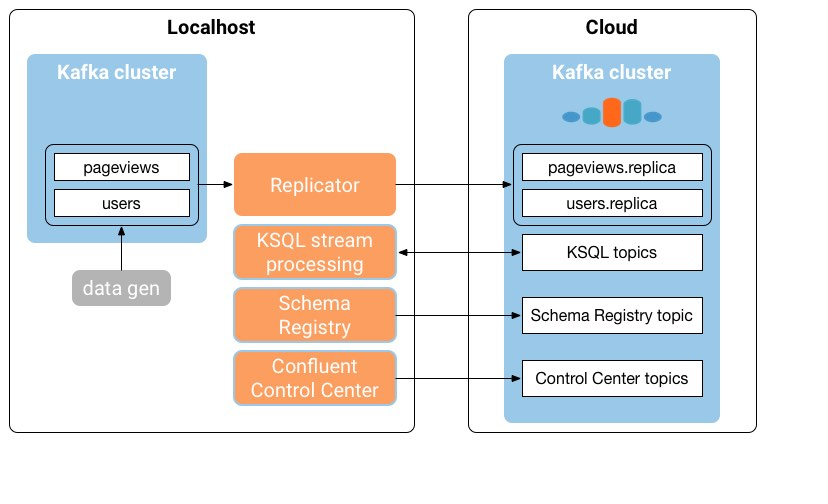
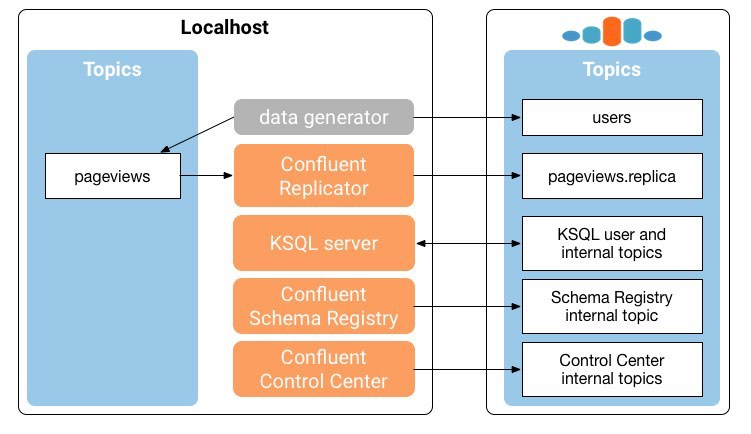
Update docs  and diagram with users generated directly to CCloud

diff --git a/ccloud/docs/index.rst b/ccloud/docs/index.rst
@@ -16,7 +16,7 @@ Overview
 
 This |ccloud| demo showcases Hybrid Kafka Clusters from Self-Hosted to |ccloud|. This automated demo is an expansion of the `KSQL Tutorial <https://docs.confluent.io/current/ksql/docs/tutorials/basics-local.html#create-a-stream-and-table>`__ , but instead of KSQL stream processing running on your local install, it runs on your |ccloud| cluster.
 
-You can monitor the KSQL streams in |c3|. This demo also showcases the Confluent Replicator executable for self-hosted Confluent to |ccloud|. This can be used for Disaster Recovery or other scenarios. In this case, Replicator is used to bootstrap the KSQL stream processing input Kafka topics `users` and `pageviews`.
+You can monitor the KSQL streams in |c3|. This demo also showcases the Confluent Replicator executable for self-hosted Confluent to |ccloud|. Confluent Replicator can be used to transfer data from another cluster into |ccloud|, or it can be used for Disaster Recovery scenarios. In this case demo, Replicator is used to bootstrap the Kafka topic `pageviews.replica` which is used for KSQL stream processing.
 
 .. figure:: images/ccloud-demo-diagram.jpg
     :alt: image
@@ -198,7 +198,7 @@ KSQL
        Table Name        | Kafka Topic       | Format | Windowed 
       -----------------------------------------------------------
        PAGEVIEWS_REGIONS | PAGEVIEWS_REGIONS | AVRO   | true     
-       USERS_ORIGINAL    | users.replica     | AVRO   | false    
+       USERS_ORIGINAL    | users             | AVRO   | false    
       -----------------------------------------------------------
 
 
@@ -290,23 +290,31 @@ a self-hosted cluster, and the destination cluster is |ccloud|.
 
         # General Replicator properties define the replication policy
         $ cat `confluent current`/connect/replicator-to-ccloud.properties
-        topic.whitelist=pageviews,users
+        topic.whitelist=pageviews
         topic.rename.format=${topic}.replica
         topic.config.sync=false
 
-2. View topics `pageviews` and `users` in the local cluster
+2. View topics `pageviews` in the local cluster
 
    .. sourcecode:: bash
 
      $ kafka-topics --zookeeper localhost:2181  --describe --topic pageviews
-     Topic:pageviews	PartitionCount:1	ReplicationFactor:1	Configs:
-	   Topic: pageviews	Partition: 0	Leader: 0	Replicas: 0	Isr: 0
+     Topic:pageviews	PartitionCount:12	ReplicationFactor:1	Configs:
+	     Topic: pageviews	Partition: 0	Leader: 0	Replicas: 0	Isr: 0
+	     Topic: pageviews	Partition: 1	Leader: 0	Replicas: 0	Isr: 0
+	     Topic: pageviews	Partition: 2	Leader: 0	Replicas: 0	Isr: 0
+	     Topic: pageviews	Partition: 3	Leader: 0	Replicas: 0	Isr: 0
+	     Topic: pageviews	Partition: 4	Leader: 0	Replicas: 0	Isr: 0
+	     Topic: pageviews	Partition: 5	Leader: 0	Replicas: 0	Isr: 0
+	     Topic: pageviews	Partition: 6	Leader: 0	Replicas: 0	Isr: 0
+	     Topic: pageviews	Partition: 7	Leader: 0	Replicas: 0	Isr: 0
+	     Topic: pageviews	Partition: 8	Leader: 0	Replicas: 0	Isr: 0
+	     Topic: pageviews	Partition: 9	Leader: 0	Replicas: 0	Isr: 0
+	     Topic: pageviews	Partition: 10	Leader: 0	Replicas: 0	Isr: 0
+	     Topic: pageviews	Partition: 11	Leader: 0	Replicas: 0	Isr: 0
 
-     $ kafka-topics --zookeeper localhost:2181  --describe --topic users    
-     Topic:users	PartitionCount:1	ReplicationFactor:1	Configs:
-	   Topic: users	Partition: 0	Leader: 0	Replicas: 0	Isr: 0
 
-3. View the replicated topics `pageviews.replica` and `users.replica` in the |ccloud| cluster. In |c3|, for a given topic listed
+3. View the replicated topics `pageviews.replica` in the |ccloud| cluster. In |c3|, for a given topic listed
    in **Management –> Topics**, click on the three dots ``...`` next to the topic name and click on
    ``View details``. View which brokers are leaders for which partitions
    and the number of consumer groups currently consuming from this
